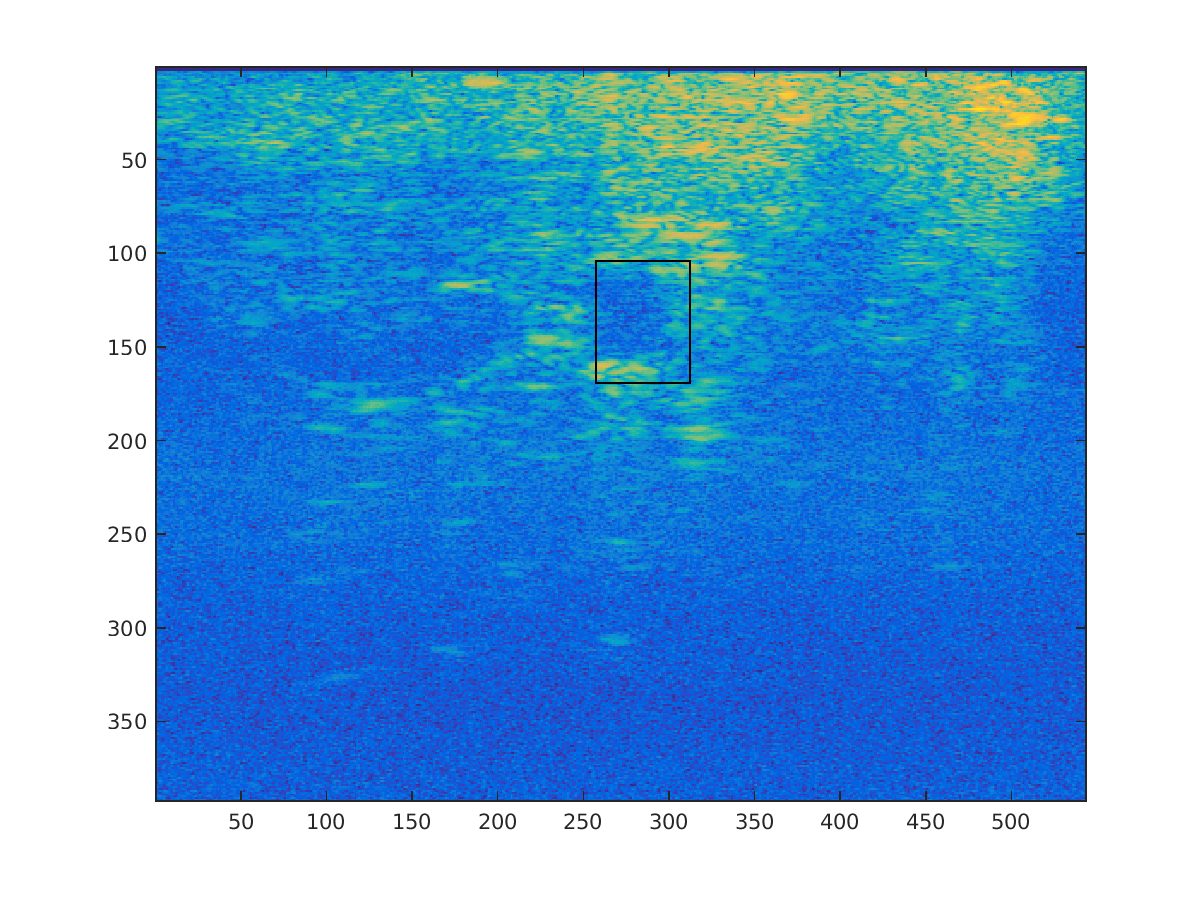
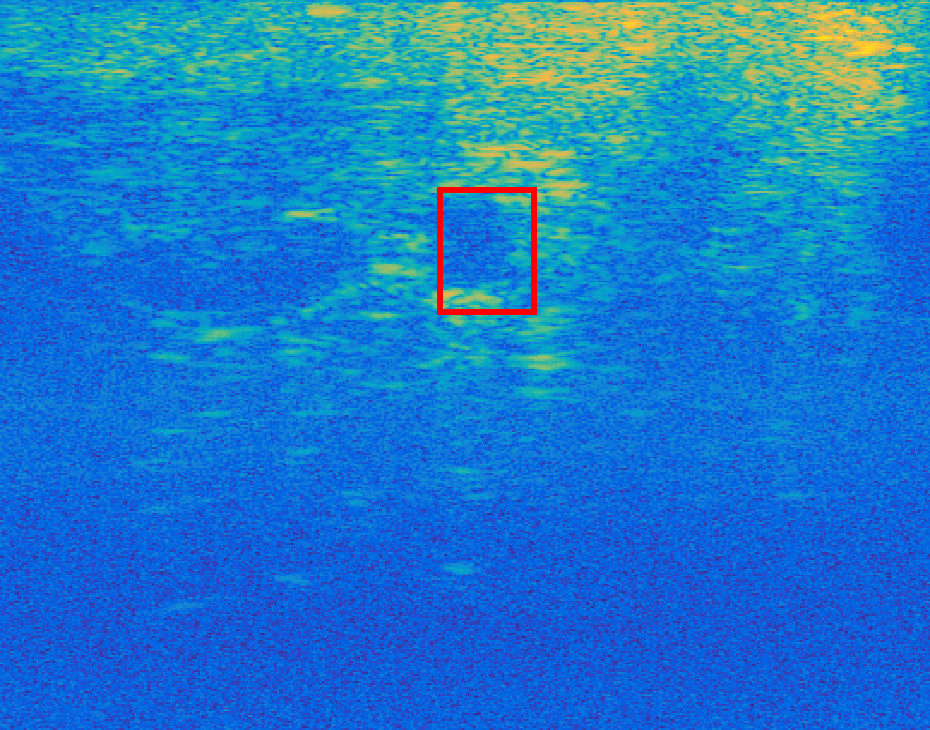
all done B-)

diff --git a/code/LucasKanadeInverseCompositional_with_p_init.m b/code/LucasKanadeInverseCompositional_with_p_init.m
@@ -1,0 +1,64 @@
+function [u, v] = LucasKanadeInverseCompositional_with_p_init(It, It1, rect, p)
+
+It = double(It);
+It1 = double(It1);
+
+patch = It(rect(2):rect(4), rect(1):rect(3));
+[X,Y] = meshgrid(rect(1):rect(3), rect(2):rect(4));
+[delta_x, delta_y] = gradient(patch);
+
+jacobian = zeros(2*numel(patch), 6);
+
+for i=1:numel(patch)
+    jacobian(2*i-1,:) = [0 0 0 0 1 0];
+    jacobian(2*i, :) = [0 0 0 0 0 1];
+end
+
+delta_matrix = zeros(numel(patch), 2*numel(patch));
+
+for i=1:numel(patch)
+    delta_matrix(i, 2*i-1) = delta_x(i);
+    delta_matrix(i, 2*i) = delta_y(i);
+end
+
+% initialize with given p
+p_arr_prev = p; 
+wrap_prev = [1+p_arr_prev(1) p_arr_prev(3) p_arr_prev(5); p_arr_prev(2) 1+p_arr_prev(4) p_arr_prev(6)];
+steep_des_img = delta_matrix*jacobian;
+hessian = steep_des_img'*steep_des_img;
+hess_inv = pinv(hessian);
+
+while 1
+    warped_coord = wrap_prev*[X(:)'; Y(:)'; ones([1,size(X(:))])];
+    warped_patch = interp2(It1, reshape(warped_coord(1,:), size(X,1), size(X,2)),...
+                           reshape(warped_coord(2,:), size(Y,1), size(Y,2)));
+    error_image = warped_patch - patch;
+    pre_final_matrix = hess_inv*steep_des_img'*error_image(:);
+    
+    delta_p_matrix = [-pre_final_matrix(1)-pre_final_matrix(1)*pre_final_matrix(4)+pre_final_matrix(2)*pre_final_matrix(3);
+                      -pre_final_matrix(2);
+                      -pre_final_matrix(3);
+                      -pre_final_matrix(4)-pre_final_matrix(1)*pre_final_matrix(4)+pre_final_matrix(2)*pre_final_matrix(3);
+                      -pre_final_matrix(5)-pre_final_matrix(4)*pre_final_matrix(5)+pre_final_matrix(3)*pre_final_matrix(6);
+                      -pre_final_matrix(6)-pre_final_matrix(1)*pre_final_matrix(6)+pre_final_matrix(2)*pre_final_matrix(5)];
+                  
+    den_factor = (1+pre_final_matrix(1))*(1+pre_final_matrix(4)) - pre_final_matrix(2)*pre_final_matrix(3);
+    delta_p_matrix = delta_p_matrix/den_factor;
+    
+    update_arr = [p_arr_prev(1)+delta_p_matrix(1)+p_arr_prev(1)*delta_p_matrix(1)+p_arr_prev(3)*delta_p_matrix(2);
+                  p_arr_prev(2)+delta_p_matrix(2)+p_arr_prev(2)*delta_p_matrix(1)+p_arr_prev(4)*delta_p_matrix(2);
+                  p_arr_prev(3)+delta_p_matrix(3)+p_arr_prev(1)*delta_p_matrix(3)+p_arr_prev(3)*delta_p_matrix(4);
+                  p_arr_prev(4)+delta_p_matrix(4)+p_arr_prev(2)*delta_p_matrix(3)+p_arr_prev(4)*delta_p_matrix(4);
+                  p_arr_prev(5)+delta_p_matrix(5)+p_arr_prev(1)*delta_p_matrix(5)+p_arr_prev(3)*delta_p_matrix(6);
+                  p_arr_prev(6)+delta_p_matrix(6)+p_arr_prev(2)*delta_p_matrix(5)+p_arr_prev(4)*delta_p_matrix(6)];
+
+    p_arr_prev = update_arr;
+    wrap_prev = [1+p_arr_prev(1) p_arr_prev(3) p_arr_prev(5); p_arr_prev(2) 1+p_arr_prev(4) p_arr_prev(6)];
+
+    if norm(delta_p_matrix)<0.1
+        break;
+    end
+end    
+
+u = p_arr_prev(5);
+v = p_arr_prev(6);

diff --git a/code/testCarSequenceWithTemplateCorrection.m b/code/testCarSequenceWithTemplateCorrection.m
@@ -1,0 +1,27 @@
+load('../data/carseq.mat');
+rect_init = [60, 117, 146, 152];
+rects_all = zeros(size(frames, 3), 4);
+rect_default = rect_init;
+rect_temp_corr = rect_init;
+
+for i = 1:size(frames, 3)-1
+    [u, v] = LucasKanadeInverseCompositional(frames(:,:,i), frames(:,:,i+1), rect_default);
+    rect_default = rect_default+[u,v,u,v];
+    [u, v] = template_correction(frames(:, :, i), frames(:, :, i+1), rect_temp_corr, frames(:, :, 1), rect_init);
+    rect_temp_corr = rect_temp_corr+[u,v,u,v];
+    imshow(frames(:, :, i));
+    hold on
+    rectangle('Position', [rect_default(1), rect_default(2), rect_default(3)-rect_default(1), ...
+        rect_default(4) - rect_default(2)], 'EdgeColor', 'r', 'LineWidth', 2);
+    rectangle('Position', [rect_temp_corr(1), rect_temp_corr(2), rect_temp_corr(3)-rect_temp_corr(1), ...
+        rect_temp_corr(4) - rect_temp_corr(2)], 'EdgeColor', 'g', 'LineWidth', 2);
+    pause(0.01)
+    axis off;
+    if i==2|i==100|i==200|i==300|i==400
+        saveas(gcf, strcat('car_templatecorr',int2str(i),'.png'));
+    end
+    rects_all(i, :) = rect_temp_corr;
+end
+
+save('../results/carseqrects-wcrt.mat','rects_all');
+close;

diff --git a/code/testUSSequenceWithTemplateCorrection.m b/code/testUSSequenceWithTemplateCorrection.m
@@ -1,0 +1,27 @@
+load('../data/usseq.mat');
+rect_init=[255, 105, 310, 170];
+rects_all = zeros(size(frames, 3), 4);
+rect_default = rect_init;
+rect_temp_corr = rect_init;
+
+for i = 1:size(frames, 3)-1
+    [u, v] = LucasKanadeInverseCompositional(frames(:,:,i), frames(:,:,i+1), rect_default);
+    rect_default = rect_default+[u,v,u,v];
+    [u, v] = template_correction(frames(:, :, i), frames(:, :, i+1), rect_temp_corr, frames(:, :, 1), rect_init);
+    rect_temp_corr = rect_temp_corr+[u,v,u,v];
+    imshow(frames(:, :, i));
+    hold on
+    rectangle('Position', [rect_default(1), rect_default(2), rect_default(3)-rect_default(1), ...
+        rect_default(4) - rect_default(2)], 'EdgeColor', 'r', 'LineWidth', 2);
+    rectangle('Position', [rect_temp_corr(1), rect_temp_corr(2), rect_temp_corr(3)-rect_temp_corr(1), ...
+        rect_temp_corr(4) - rect_temp_corr(2)], 'EdgeColor', 'g', 'LineWidth', 2);
+    pause(0.01)
+    axis off;
+    if i==5|i==25|i==50|i==75|i==99
+        saveas(gcf, strcat('us_seq_templatecorr',int2str(i),'.png'));
+    end
+    rects_all(i, :) = rect_temp_corr;
+end
+
+save('../results/usseqrects-wcrt.mat','rects_all');
+close;

diff --git a/code/testSylvSequence.m b/code/testSylvSequence.m
@@ -14,9 +14,9 @@ for i=1:length(frames)-1
     imshow(frames(:,:,i))
     hold on
     rectangle('Position',[rect_inv_comp(1),rect_inv_comp(2),...
-        rect_inv_comp(3)-rect_inv_comp(1),rect_inv_comp(4)-rect_inv_comp(2)],'EdgeColor','b'); 
+        rect_inv_comp(3)-rect_inv_comp(1),rect_inv_comp(4)-rect_inv_comp(2)],'EdgeColor','r','LineWidth',2); 
     rectangle('Position',[rect_bases(1),rect_bases(2),...
-        rect_bases(3)-rect_bases(1),rect_bases(4)-rect_bases(2)],'EdgeColor','r'); 
+        rect_bases(3)-rect_bases(1),rect_bases(4)-rect_bases(2)],'EdgeColor','g','LineWidth',2); 
     pause(0.01);     
     if (i==2)|(i==200)|(i==300)|(i==350)|(i==400)
         saveas(gcf, strcat('sylv',int2str(i), '.png'));

diff --git a/code/template_correction.m b/code/template_correction.m
@@ -1,0 +1,19 @@
+function [u, v] = template_correction(frame_n, frame_nplusone, rect_given, I0, rect0)
+
+epsil = 2
+[delta_u_n, delta_v_n] = LucasKanadeInverseCompositional(frame_n, frame_nplusone, rect_given);
+rect_n = rect_given + [delta_u_n, delta_v_n, delta_u_n, delta_v_n];
+u_and_v = (rect_n(1 : 2) - rect0(1 : 2))';
+p_init = [zeros(2,2) u_and_v];
+[u_star, v_star] = LucasKanadeInverseCompositional_with_p_init(I0, frame_nplusone, rect0, p_init);
+
+u_star = u_star - (rect_given(1) - rect0(1));
+v_star = v_star - (rect_given(2) - rect0(2));
+
+if norm([u_star, v_star] - [delta_u_n, delta_v_n]) <= epsil
+    u = u_star;
+    v = v_star;
+else
+    u = delta_u_n;
+    v = delta_v_n;
+end

diff --git a/code/TemplateCorrection.m b/code/TemplateCorrection.m
@@ -1,0 +1,15 @@
+function [u, v] = template_correction(It, It1, rect, first_frame, rect_0)
+
+thresh = 2;
+[diff_u, diff_v] = LucasKanadeInverseCompositional(It, It1, rect);
+rect_n = rect + [diff_u, diff_v, diff_u, diff_v];
+uanvinthisbeautifulworld = (rect_n(1 : 2) - rect_0(1 : 2))'; 
+p_init = [zeros(2,2) uanvinthisbeautifulworld];
+[u_star, v_star] = LucasKanadeInverseCompositional_with_p_init(first_frame, It1, rect_0, p_init);
+u_star = u_star - (rect(1)-rect_0(1));
+v_star = v_star - (rect(2)-rect_0(2));
+if norm([u_star, v_star]-[diff_u, diff_v])<=thresh
+    [u v] = [u_star v_star];
+else
+    [u v] = [diff_u diff_v];
+end

diff --git a/code/testUltrasoundSequence.m b/code/testUltrasoundSequence.m
@@ -13,11 +13,13 @@ for i=1:size(frames,3)-1
     rects(i+1,:)=rect;
     imagesc(It)
     hold on; 
-    rectangle('Position',[rect(1), rect(2), abs(rect(3)-rect(1)), abs(rect(2)-rect(4))]);
+    rectangle('Position',[rect(1), rect(2), abs(rect(3)-rect(1)), abs(rect(2)-rect(4))],...
+        'EdgeColor','r','LineWidth',3);
     pause(0.01);
-    if i==5|i==25|i==50|i==75|i==100
+    if i==5|i==25|i==50|i==75|i==99
         saveas(gcf, strcat('ultra',int2str(i), '.png'));
     end
+    axis off;
 end
 save('../results/usseqrects.mat','rects');
 close;

diff --git a/code/testCarSequence.m b/code/testCarSequence.m
@@ -13,11 +13,13 @@ for i=1:size(frames,3)-1
     rects(i+1,:)=rect;
     imagesc(It)
     hold on; 
-    rectangle('Position',[rect(1), rect(2), abs(rect(3)-rect(1)), abs(rect(2)-rect(4))]);
+    rectangle('Position',[rect(1), rect(2), abs(rect(3)-rect(1)), abs(rect(2)-rect(4))],...
+        'EdgeColor','r','LineWidth',3);
     pause(0.01);
     if i==2|i==100|i==200|i==300|i==400
         saveas(gcf, strcat('car',int2str(i), '.png'));
     end
+    axis off;
 end
 save('../results/carseqrect.mat','rects');
 close;

diff --git a/code/testUSSeqAffine.m b/code/testUSSeqAffine.m
@@ -16,5 +16,6 @@ for i=1:size(frames,3)-1
     if (i==5)|(i==25)|(i==50)|(i==75)|(i==100)
         saveas(gcf, strcat('usseqaffine',int2str(i),'.png'));
     end
+    axis off;
 end
 close
